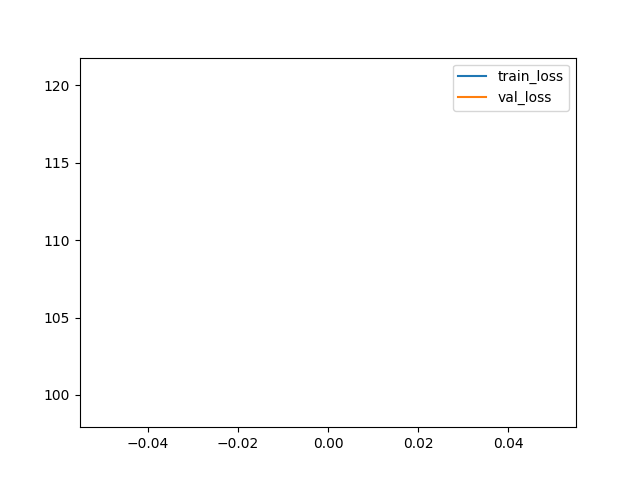
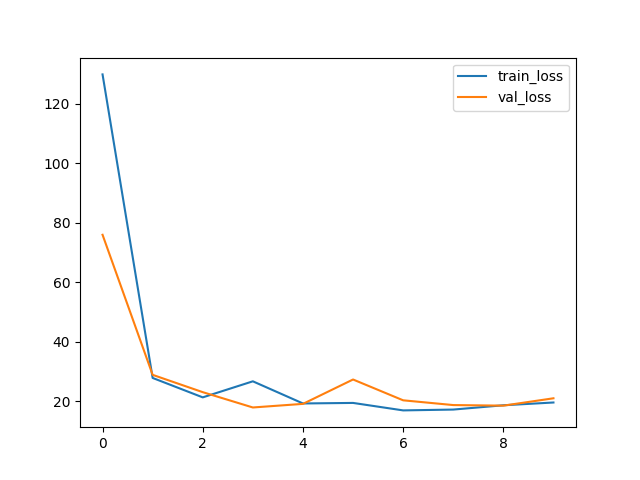
Bad train

diff --git a/main.py b/main.py
@@ -99,9 +99,9 @@ class Model(nn.Module):
 
         self.output_size = 1
 
-        self.nb_epoch = 1
+        self.nb_epoch = 100
         self.learning_rate = 0.0001
-        self.batch_size = 2
+        self.batch_size = 32
 
         self.model = nn.Sequential(
             nn.Conv2d(3, 64, 7, stride=2, padding=3),
